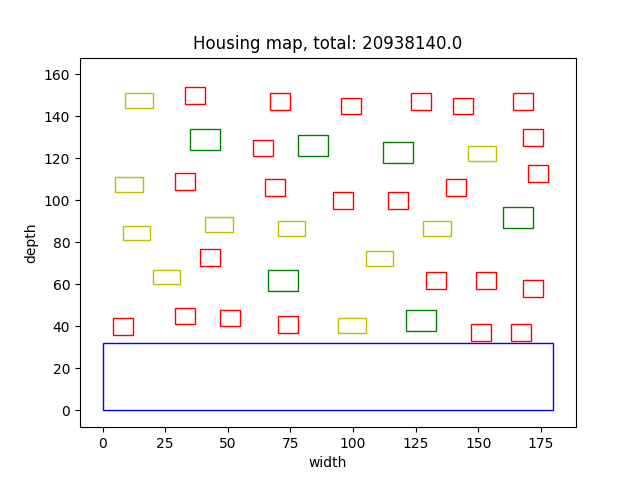
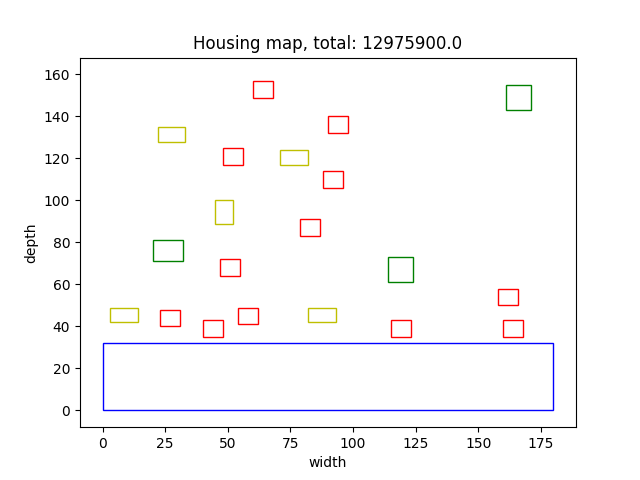
rotation function added to randomize

diff --git a/project_code/algorithms/render_randomise.py b/project_code/algorithms/render_randomise.py
@@ -4,6 +4,7 @@ from shapely.geometry import Polygon
 import random
 from project_code.algorithms.randomise import randomise_coordinates
 from copy import deepcopy
+from project_code.algorithms.rotation import rotation
 
 
 class Randomise():
@@ -34,15 +35,19 @@ class Randomise():
             required_free_space = 6
             overlap = True
             maison = None
+            placement = random.choice(['horizontal', 'vertical'])
             while (overlap):
                 coordinates = randomise_coordinates(width2, depth2)
-                polygon = Polygon([(coordinates[0] + required_free_space, coordinates[1] + required_free_space), (coordinates[0] + width + required_free_space, coordinates[1] + required_free_space), (coordinates[0] + width + required_free_space, coordinates[1] + depth + required_free_space), (coordinates[0] + required_free_space, coordinates[1] + depth + required_free_space)])
-                
-                # polygon with required free space, created to calculate price of house
-                polygon_free_space = Polygon([coordinates, (coordinates[0] + width2, coordinates[1]), (coordinates[0] + width2, coordinates[1] + depth2), (coordinates[0], coordinates[1] + depth2)])
+                rotation_finished = rotation(coordinates, width, depth, width2, depth2, placement, required_free_space)
+                width = rotation_finished[0]
+                depth = rotation_finished[1]
+                depth2 = rotation_finished[2]
+                width2 = rotation_finished[3]
+                polygon = rotation_finished[4]
+                polygon_free_space = rotation_finished[5]
                 coordinates2 = tuple((coordinates[0] + required_free_space, coordinates[1] + required_free_space))
                 maison = House("maison", width, depth, 610000, coordinates2, polygon, 6, polygon_free_space)
-                overlap = housing_map.overlap(maison)  
+                overlap = housing_map.overlap(maison) 
 
         for i in range(int(0.25 * number_houses)):
             width = 11
@@ -52,12 +57,16 @@ class Randomise():
             required_free_space = 3
             overlap = True
             bungalow = None
+            placement = random.choice(['horizontal', 'vertical'])
             while (overlap):
                 coordinates = randomise_coordinates(width2, depth2)
-                polygon = Polygon([(coordinates[0] + required_free_space, coordinates[1] + required_free_space), (coordinates[0] + width + required_free_space, coordinates[1] + required_free_space), (coordinates[0] + width + required_free_space, coordinates[1] + depth + required_free_space), (coordinates[0] + required_free_space, coordinates[1] + depth + required_free_space)])
-
-                # polygon with required free space, created to calculate price of house
-                polygon_free_space = Polygon([coordinates, (coordinates[0] + width2, coordinates[1]), (coordinates[0] + width2, coordinates[1] + depth2), (coordinates[0], coordinates[1] + depth2)])
+                rotation_finished = rotation(coordinates, width, depth, width2, depth2, placement, required_free_space)
+                width = rotation_finished[0]
+                depth = rotation_finished[1]
+                depth2 = rotation_finished[2]
+                width2 = rotation_finished[3]
+                polygon = rotation_finished[4]
+                polygon_free_space = rotation_finished[5]
                 coordinates2 = tuple((coordinates[0] + required_free_space, coordinates[1] + required_free_space))
                 bungalow = House("bungalow", width, depth, 399000, coordinates2, polygon, 3, polygon_free_space)
                 overlap = housing_map.overlap(bungalow)
@@ -112,8 +121,6 @@ class Randomise():
             if total_value > highest_score:
                 highest_scoring_map = resulting_map
                 highest_score = total_value
-
-            print(total_value)
         
         return highest_scoring_map
     

diff --git a/project_code/algorithms/rotation.py b/project_code/algorithms/rotation.py
@@ -1,0 +1,20 @@
+from copy import deepcopy
+from shapely.geometry import Polygon
+
+def rotation(coordinates, width, depth, width2, depth2, placement, required_free_space): 
+    if placement == 'vertical':
+        copy_width = deepcopy(width)
+        copy_width2 = deepcopy(width2)
+        width = depth
+        depth = copy_width
+        width2 = depth2
+        depth2 = copy_width2
+        polygon = Polygon([(coordinates[0] + required_free_space, coordinates[1] + required_free_space), (coordinates[0] + width + required_free_space, coordinates[1] + required_free_space), (coordinates[0] + width + required_free_space, coordinates[1] + depth + required_free_space), (coordinates[0] + required_free_space, coordinates[1] + depth + required_free_space)])
+        polygon_free_space = Polygon([coordinates, (coordinates[0] + width2, coordinates[1]), (coordinates[0] + width2, coordinates[1] + depth2), (coordinates[0], coordinates[1] + depth2)])
+    if placement == 'horizontal':
+        polygon = Polygon([(coordinates[0] + required_free_space, coordinates[1] + required_free_space), (coordinates[0] + width + required_free_space, coordinates[1] + required_free_space), (coordinates[0] + width + required_free_space, coordinates[1] + depth + required_free_space), (coordinates[0] + required_free_space, coordinates[1] + depth + required_free_space)])
+        polygon_free_space = Polygon([coordinates, (coordinates[0] + width2, coordinates[1]), (coordinates[0] + width2, coordinates[1] + depth2), (coordinates[0], coordinates[1] + depth2)])
+
+
+    return (width, depth, depth2, width2, polygon, polygon_free_space)
+

diff --git a/main.py b/main.py
@@ -25,7 +25,7 @@ if __name__ == "__main__":
     
     # --------------------------- Random  --------------------------
     empty_graph = Land(f"data/{wijk_number}.csv")
-    winner_graph = Randomise(empty_graph, number_of_houses, 20)
+    winner_graph = Randomise(empty_graph, number_of_houses, 1000)
     visualise(winner_graph.winner.all_land_objects, winner_graph.winner.total)
 
 

diff --git a/project_code/visualisations/visualise.py b/project_code/visualisations/visualise.py
@@ -38,5 +38,5 @@ def visualise(land_objects, total):
     plt.xlabel('width')
     plt.ylabel('depth')
     plt.savefig('output/test.png')
-    #plt.show()
+    # plt.show()
    

diff --git a/project_code/algorithms/randomise.py b/project_code/algorithms/randomise.py
@@ -1,5 +1,5 @@
 import random
-# from ..classes.land import Land
+
 
 
 def randomise_coordinates(width, depth):
